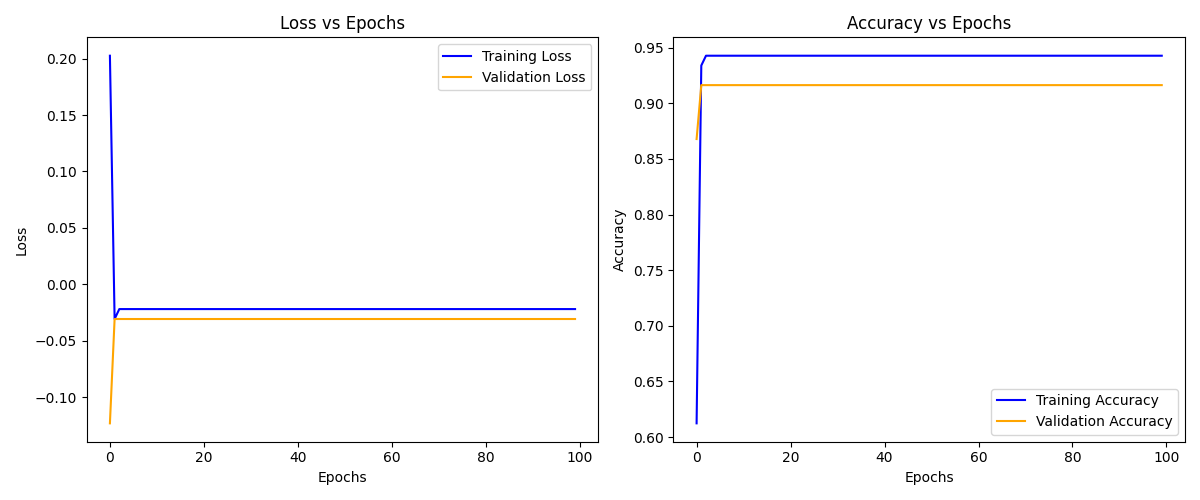
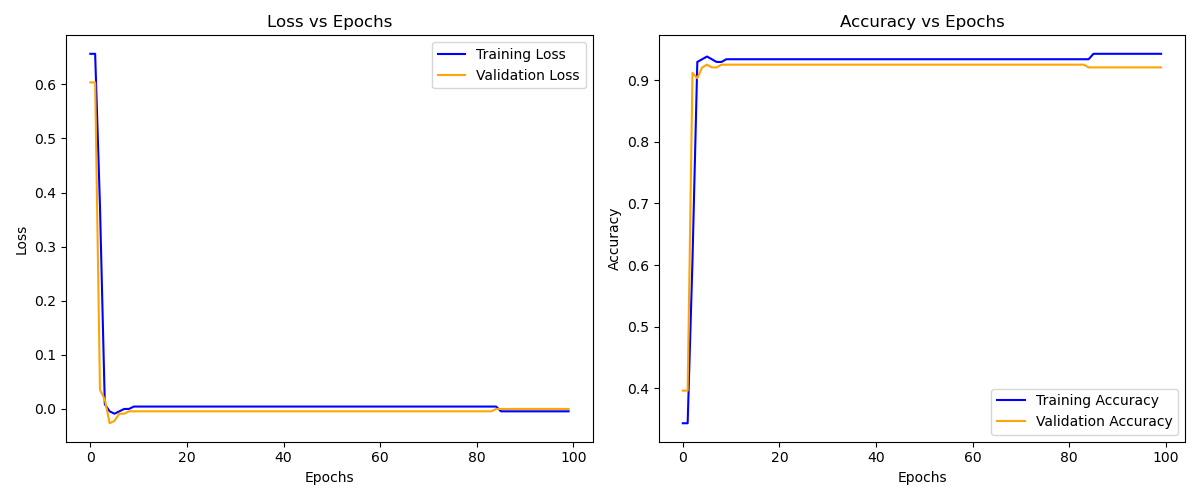
cross entropy

diff --git a/src/multilayer_perceptron.py b/src/multilayer_perceptron.py
@@ -1,11 +1,15 @@
 from neuralnetwork import NeuralNetwork
 import pandas as pd
-import pickle
+import pickle, math
 
 interpretation = {
     0: "M",
     1: "B"
 }
+
+def binary_cross_entropy(y, y_hat, epsilon=0.001):
+    y = max(epsilon, min(1 - epsilon, y))
+    return -y_hat * math.log(y) - (1 - y_hat) * math.log(1 - y)
 
 if __name__=="__main__":
     try:
@@ -15,6 +19,10 @@ if __name__=="__main__":
         print("File not found")
         exit(1)
     nn:NeuralNetwork = pickle.load(pkl_file)
+    e = 0
     for i, row in data.iterrows():
         inputs = row[2:]
+        e += binary_cross_entropy(nn.forwardpropagation(inputs), row.iloc[1] == "B")
         print(f"output: {interpretation[nn.forwardpropagation(inputs)]} - expected: {row.iloc[1]}")
+    e /= len(data)
+    print(f"Binary cross entropy: {e}")

diff --git a/src/train_neuralnetwork.py b/src/train_neuralnetwork.py
@@ -9,6 +9,6 @@ if __name__=="__main__":
         print("File not found")
         exit(1)
     nn = NeuralNetwork(30, 20)
-    nn.train(data, val_data, 0.01, 100)
+    nn.train(data, val_data, 0.001, 100)
     print(nn)
     nn.save('model.pkl')
